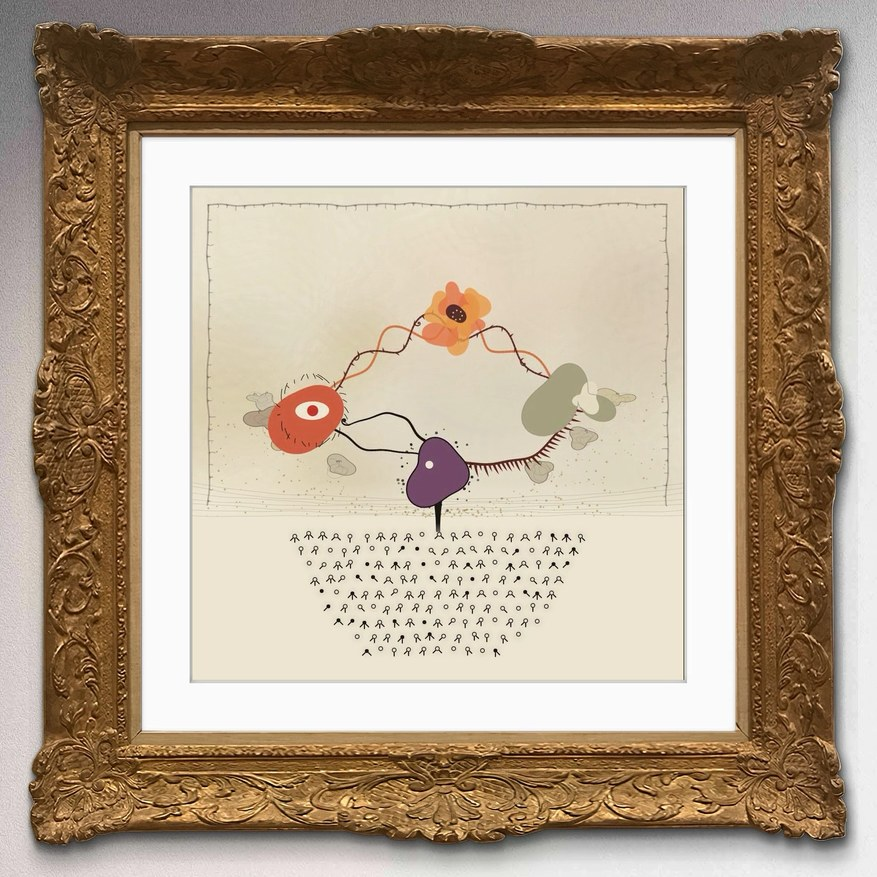
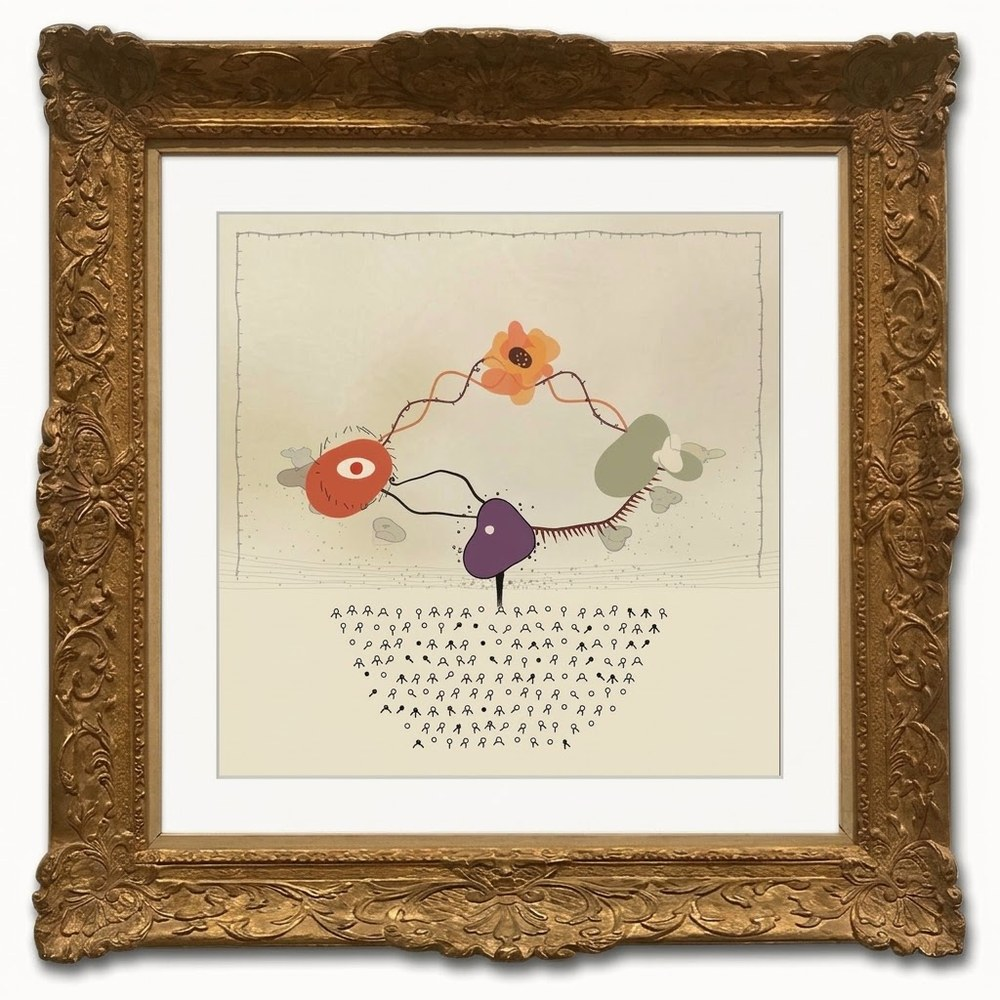
floating frame

diff --git a/index.html b/index.html
@@ -48,6 +48,8 @@ a{color:inherit;text-decoration:none}
 .media img{display:block;width:100%;height:100%;object-fit:cover;transition:transform .5s cubic-bezier(.2,.6,.2,1)}
 .tile:hover .media img,.tile:focus-visible .media img{transform:scale(1.025)}
 
+/* image carries its own shadow on page-colored ground: no tile ring, no tile fill */
+.media--float{background:var(--paper);box-shadow:none}
 /* the book sits on a ground as an object, so every tile keeps the same frame */
 .media--book{background:linear-gradient(180deg,var(--paper-2),var(--paper-3))}
 .media--book img{position:absolute;top:11%;left:50%;width:auto;height:78%;object-fit:contain;transform:translateX(-50%);
@@ -81,8 +83,8 @@ footer{margin-top:clamp(3.5rem,7vw,5.5rem);padding:1.5rem 0 3.5rem;border-top:1p
     <div class="grid">
 
       <a class="tile" href="/semantic-mirror/">
-        <div class="media">
-          <img src="/img/semantic-mirror.jpg" width="877" height="877" alt="Semantic Mirror: a gilt baroque frame holding soft abstract forms in orange, purple and sage above a field of small marks.">
+        <div class="media media--float">
+          <img src="/img/semantic-mirror.jpg" width="1000" height="1000" alt="Semantic Mirror: a gilt baroque frame holding soft abstract forms in orange, purple and sage above a field of small marks.">
         </div>
         <p class="eyebrow">Installation · Proof of concept</p>
         <h2>Semantic Mirror</h2>
